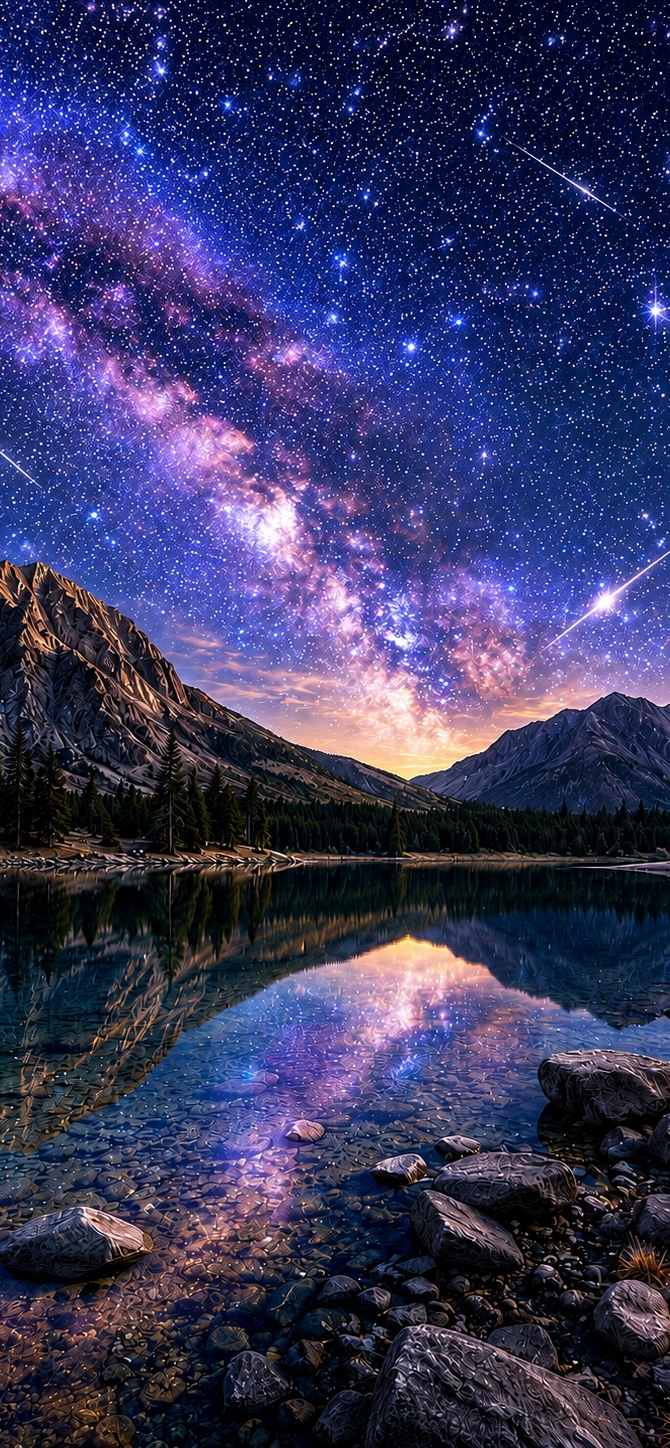
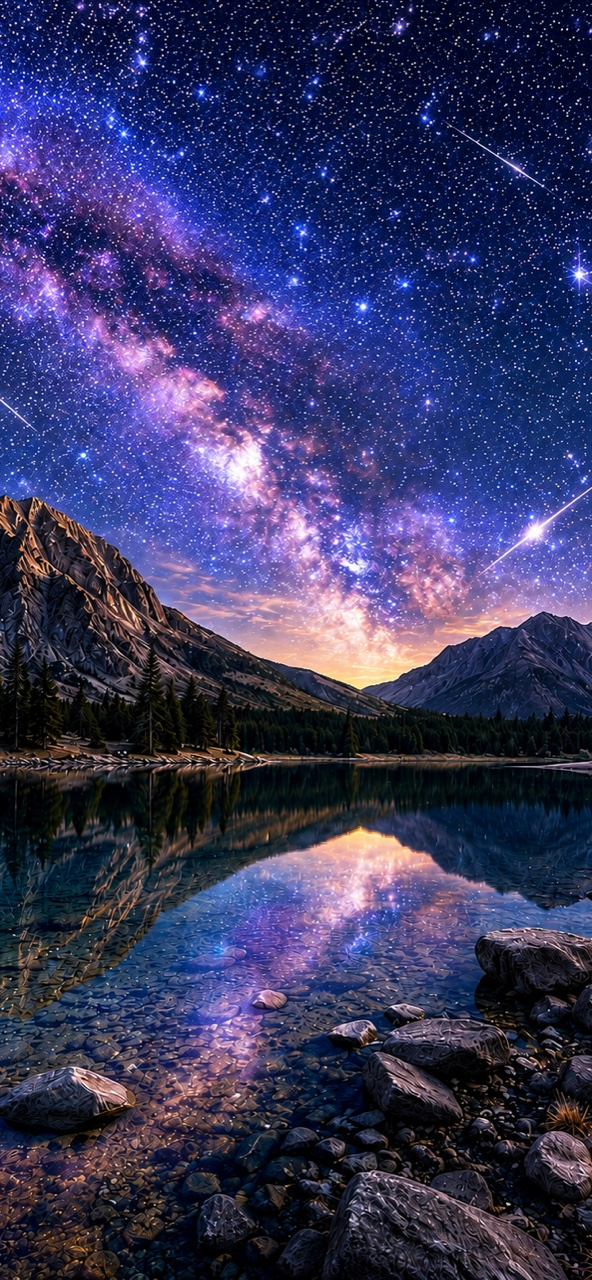
Fix perf regression and cut the real bottleneck (texture bandwidth)
Revert the conditional per-layer texture fetches from the previous commit.
Guarding texture2D behind each tent weight looked like a win (only two
layers ever contribute) but made things markedly WORSE on device: the
driver can't issue the fetches up front to hide memory latency, and
divergent branches on mobile tile GPUs cost more than the fetches they
skip. Straight-line sampling is what this hardware wants.

Then attack the actual bottleneck, which is memory bandwidth rather than
arithmetic -- the shader samples every layer per pixel, and at 853x1844
that was a ~57MB working set per frame, far past any GPU cache:
- Layer textures regenerated at 592x1280 (originals untouched in source/):
  ~27MB working set, less than half, and smaller downloads too.
- pixelRatioCap 2 -> 1.5: ~44% fewer fragments on a phone (DPR 3 caps at
  1.5 rather than 2), paired to the new ~1280px texture height.
- mapResolution 512 -> 384: the rub map is re-uploaded every frame while
  rubbing, so it's a direct per-frame cost, and it's only a soft mask.

Kept from the previous commit: render-on-demand (idle draws 60/sec -> 0,
verified) and antialias:false (MSAA does nothing for one fullscreen quad).

diff --git a/index.html b/index.html
@@ -174,10 +174,18 @@
   var CONFIG = {
     // Resolution (long edge, in px) of the internal rub (touch intensity) map.
     // Higher = finer detail on where growth appears, more memory/CPU per stamp.
-    mapResolution: 512,
+    // This whole map is re-uploaded to the GPU on every frame you're rubbing,
+    // so it's a direct per-frame bandwidth cost; it's only a soft mask, so
+    // dropping it costs almost nothing visually.
+    mapResolution: 384,
 
-    // Cap on devicePixelRatio used for the WebGL canvas (perf safety on high-DPI phones).
-    pixelRatioCap: 2,
+    // Cap on devicePixelRatio used for the WebGL canvas. THE main performance
+    // lever: the shader samples every growth layer per pixel, so cost scales
+    // directly with pixel count (a cap of 1.5 rather than 2 is ~44% less
+    // fragment work). Raise toward 2 for sharpness, lower toward 1.25 for
+    // speed. The layer images are ~1280px tall, which pairs with ~1.5 on a
+    // phone-sized screen.
+    pixelRatioCap: 1.5,
 
     brush: {
       // Brush radius as a fraction of the shorter map dimension.
@@ -242,17 +250,17 @@
       // Known photo dimensions, used to shape the desktop phone-frame
       // correctly from the moment this mode is chosen — before any of its
       // images have actually finished downloading.
-      width: 853, height: 1844
+      width: 592, height: 1280
     },
     discover: {
       layers: buildLayerList("discover", 6),
       music: "discover/bg.mp3",
-      width: 670, height: 1448
+      width: 592, height: 1280
     },
     deep: {
       layers: buildLayerList("deep", 6),
       music: "deep/bg.mp3",
-      width: 853, height: 1844
+      width: 592, height: 1280
     }
   };
 
@@ -487,15 +495,15 @@
     for (var i = 0; i < layerCount; i++) {
       lines.push("  float w" + i + " = clamp(1.0 - abs(pos - " + i.toFixed(1) + "), 0.0, 1.0);");
     }
-    // Only ever two adjacent layers have a non-zero tent weight at a given
-    // pixel, so the fetches are guarded rather than summing all N
-    // unconditionally. Most of the screen sits at t=0 (weight only on layer
-    // 0), where whole GPU wavefronts agree on the branch and skip the other
-    // N-1 texture fetches outright — a large saving with 9 or 10 layers.
-    lines.push("  vec3 col = vec3(0.0);");
-    for (var i = 0; i < layerCount; i++) {
-      lines.push("  if (w" + i + " > 0.0) col += texture2D(uLayer" + i + ", uv).rgb * w" + i + ";");
-    }
+    // Deliberately an unconditional sum, NOT guarded by each weight. Wrapping
+    // texture fetches in non-uniform branches looked like an easy win (only
+    // two layers ever have weight) but measured far SLOWER on device: the
+    // driver can no longer issue the fetches up front to hide memory latency,
+    // and divergent branches on mobile tile GPUs cost more than the fetches
+    // they skip. Straight-line sampling is what this hardware wants.
+    var sumTerms = [];
+    for (var i = 0; i < layerCount; i++) sumTerms.push("texture2D(uLayer" + i + ", uv).rgb * w" + i);
+    lines.push("  vec3 col = " + sumTerms.join("\n           + ") + ";");
     lines.push("  gl_FragColor = vec4(col, 1.0);");
     lines.push("}");
     return lines.join("\n");
